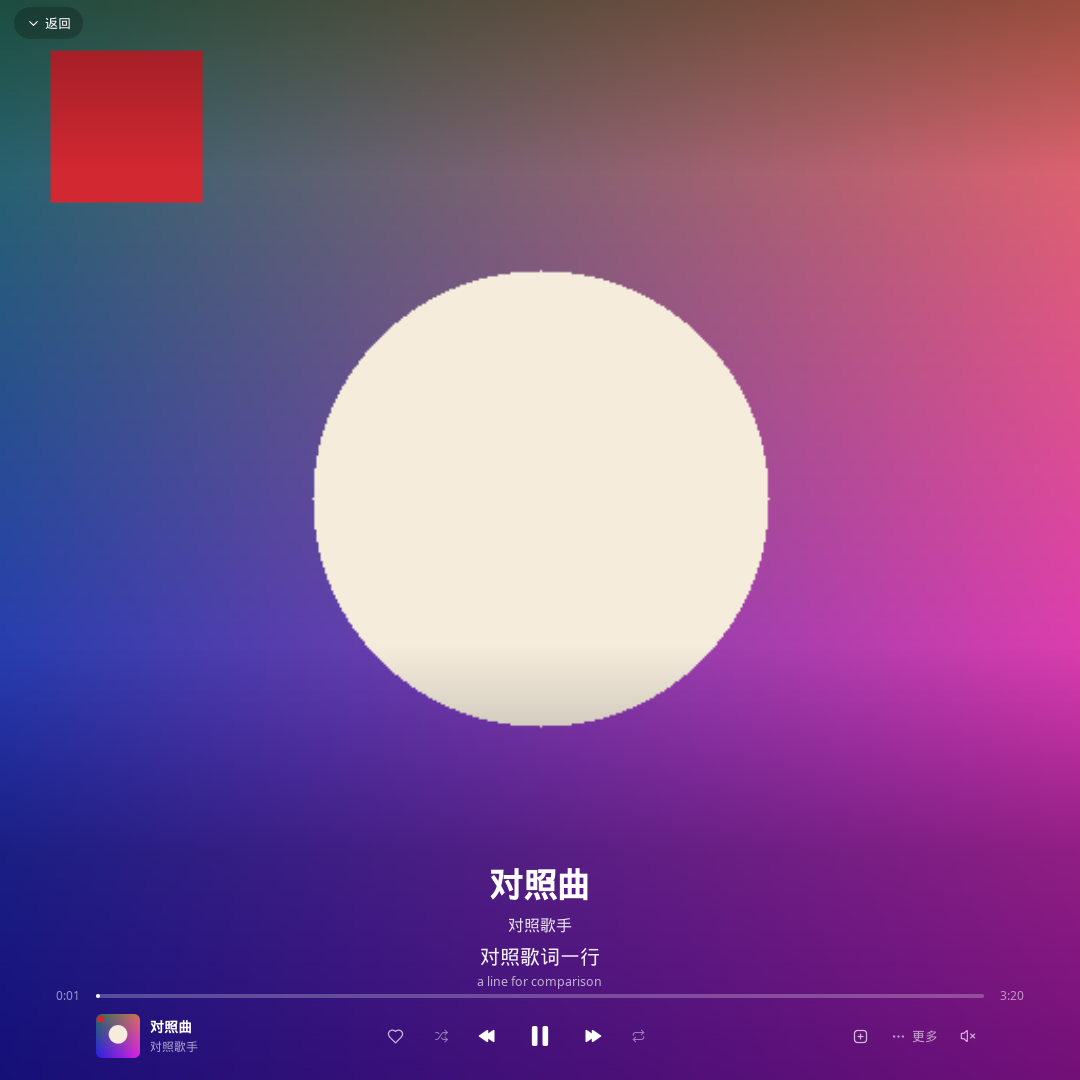
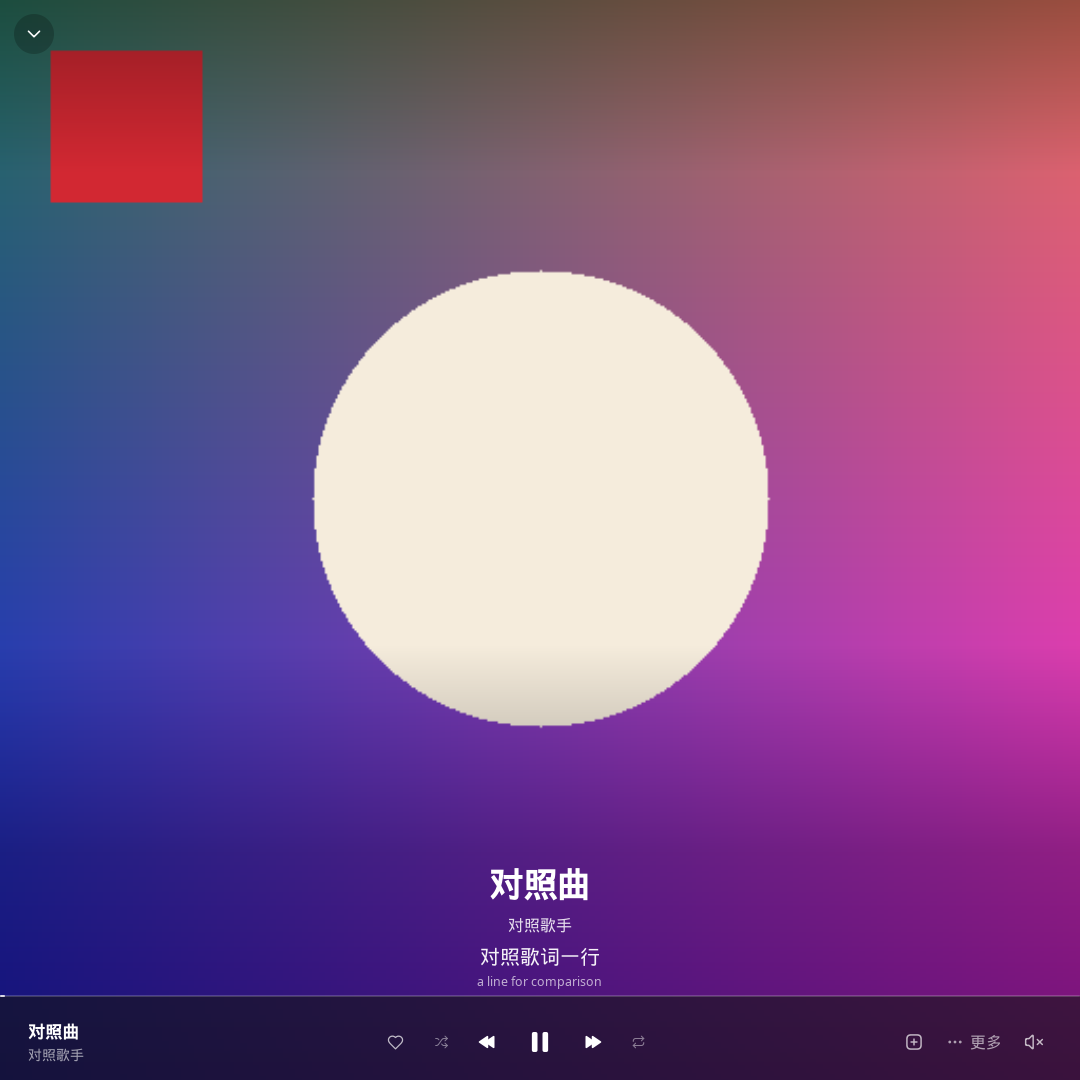
Refresh playing-page notes for the full-width bar
Rebase onto the pushed typography and player-bar work. Cover crop and
the wide-window blur are unchanged; the playing-page bar is now a
full-width strip, so the checklist and headless frames follow that.

Changed region(s): [[0.0, 0.9167, 1.0, 1.0], [0.0306, 0.0, 0.0611, 0.0306]]

diff --git a/docs/ui-parity/STATUS.md b/docs/ui-parity/STATUS.md
@@ -2,13 +2,11 @@
 
 ## Checkout
 
-Branch `fix/player-ui-parity`, taken from `main` at `106cd3c` (`Rewrite README for listeners`).
+Branch `fix/player-ui-parity`, rebased onto `origin/main` at `5b786a7` (`Refine page typography, player bar and search`). That tip also includes `1df9916` (`Improve playback buffering, collections and shared layout`).
 
-`main` matched `origin/main`. The working tree was clean. No local WIP on remote; the user’s ~32 uncommitted files may still be only on their PC.
+The first look at this cloud checkout, then at `106cd3c`, found a clean tree. No local WIP on remote at that time; the user’s uncommitted files were only on their PC until they pushed. Those two commits are the pushed work this branch now contains. Anything still uncommitted on the PC is still absent.
 
-Nothing from `D:\仓库集合\mygo-cloudmusic` was available here unless it had already been pushed. No commit was invented for that work. No force-push.
-
-`本地开发说明-改代码看这里.md` on this `main` names `internal/app/ui_stage.go`, `ui_stage_styles.go`, and settings `LyricsStage`, `StageStyle`, `StageSparks`, `Fog`, and `Smoke`. Those files and fields are not in the Go tree at `106cd3c`. `ui_nowplaying.go` is 582 lines, not the 650 lines that note claims. A comment on `app.npPane` still says `paneStage`, and that constant is gone. If the uncommitted Windows tree adds a stage view, it is not in this branch.
+`本地开发说明-改代码看这里.md` on this tip still names `internal/app/ui_stage.go`, `ui_stage_styles.go`, and settings `LyricsStage`, `StageStyle`, `StageSparks`, `Fog`, and `Smoke`. Those files and fields are not in the Go tree at `5b786a7`. `ui_nowplaying.go` is 581 lines. A comment on `app.npPane` still says `paneStage`, and that constant is gone.
 
 ## What the playing page does now
 
@@ -18,12 +16,15 @@ The page that opens with Ctrl+L is `nowPlayingView` (`internal/app/ui_nowplaying
 - Wider than height × 1.15, the same picture stays sharp on the left and eases into a blurred copy between 42% and 72% of the width. Square and tall windows stay sharp across.
 - The blur fed to that mix is a 48×48 image: shrink, raise saturation, three box blurs of radius 5 (`blurImage` in `internal/app/artwork.go`). Scaled up, it can look soft and banded.
 - Under that, `backdrop` (`internal/app/backdrop.go`) paints a deep gradient of the cover’s main colour, lighter at the top, plus the blurred cover at 10% opacity, into a canvas an eighth of the window across. The full-bleed cover is drawn over it, so the gradient shows only where the cover does not. Comments in `backdrop.go` describe this gradient as matching NetEase’s player; the picture on top is a later full-bleed poster.
-- Title, artist, and the current lyric line are centered just above the bottom bar. The bar (progress, a 44px thumbnail, transport, quality, volume) hides after 2.75s idle. Lyrics sit in a right column when the window is at least 1120px wide and at least 1.3 times as wide as it is tall; otherwise they are a centered panel.
+- Title, artist, and the current lyric line are centered just above the bottom bar (name 34px, or 26px when the window is shorter than 680). Lyrics sit in a right column when the window is at least 1120px wide and at least 1.3 times as wide as it is tall; otherwise they are a centered panel.
+- The playing-page bar is now a full-width strip flush with the bottom, 84px tall (`playerBarHeight`), filled with `rgba(20, 20, 22, 0.6)`. It has no cover thumbnail. The song name is 17px and the artist 14px. The progress line is a full-width scrubber along the top edge of that strip (`Top(-8)`). Elapsed and remaining time show only while the pointer is on the scrubber. Transport, like, collect, quality, volume, and “更多” sit in the strip. The back control is a 40px round icon, still labeled “返回”, with no word beside the chevron. The strip hides after 2.75s idle.
 - Opening and closing spring the whole layer from 60px below (`npSpring`, 450ms, bounce 0.08).
+
+`5b786a7` changed type sizes and this bar. It did not change `blendSource`, `blurImage`, `backdrop`, or `npCover`. The crop and the wide-window blur are the same as on `106cd3c`.
 
 `npCover` in `internal/app/ui_cover.go` still implements a square cover that tilts, glares, and flings to the next song. No caller builds it. A comparison that expects that card will not see it on this tree.
 
-The foot of the normal pages (`playerBar` in `internal/app/ui_player.go`) is a separate bar, height 84. This pass does not restyle it.
+The bar on ordinary pages (`playerBar` in `internal/app/ui_player.go`) is a separate 84px strip. Its progress line is also full width, along the top of the strip, and the strip is a solid page background with a hairline instead of the old frosted scroll edge. It is not built while the playing page has settled, so the frames below do not show it.
 
 Likely places a paired screenshot will disagree, to confirm rather than to fix yet:
 
@@ -38,7 +39,7 @@ No visual constants were changed in this pass. A restyle needs the official stil
 
 The official NetEase Windows client does not run here. This app was not logged in and was not given a live song.
 
-`ui.NewTester` drew the playing page without a window. `TestNowPlayingAspectFrames` was run with `NM_FRAMES` set to `docs/ui-parity/frames/mygo` (five times). The cover is synthetic: a 512×512 wash, a disc, and a red square at the cover’s top left. The PNGs are this app only.
+`ui.NewTester` drew the playing page without a window. `TestNowPlayingAspectFrames` was run again after the rebase onto `5b786a7`, with `NM_FRAMES` set to `docs/ui-parity/frames/mygo` (five times). The cover is synthetic: a 512×512 wash, a disc, and a red square at the cover’s top left. The PNGs are this app only. Crop and blur match the earlier frames; the bar is the full-width strip from `5b786a7`.
 
 What those frames show, which matches the code above:
 
@@ -48,20 +49,20 @@ What those frames show, which matches the code above:
 - `9x16-720x1280.png`: the red square is cropped off the side. The disc stays sharp.
 - `lyrics-16x9-1280x720.png`: the lyric line sits on the right, over the blur.
 - `lyrics-1x1-800x800.png`: the lyric line sits in a centered dark panel.
-- The bottom bar’s small cover is the same fixture. Controls are the awake state. Nothing here is a recording of the open or close spring.
+- The bottom strip is full width, flush with the window, and has no cover thumbnail. The pointer in these frames sits in the middle of the picture, so the time tooltip on the progress line is not showing. Controls are the awake state. Nothing here is a recording of the open or close spring.
 
 Left-edge stair-steps, where the disc is sharp, come from drawing a 512×512 fixture into a larger window. A real 1536 cover would be smoother there. The soft right side is the 48×48 blur, not that upscale.
 
 ## Tests on this VM
 
-`NM_FRAMES="$PWD/docs/ui-parity/frames/mygo" go test ./internal/app/ -run TestNowPlayingAspectFrames -count=5` passed.
+After the rebase onto `5b786a7`, `NM_FRAMES="$PWD/docs/ui-parity/frames/mygo" go test ./internal/app/ -run TestNowPlayingAspectFrames -count=5` was run again. The test still compiles: it drives `nowPlayingView` and does not call `scrubber` or `collectButton`, whose signatures changed in `5b786a7`.
 
-`go test ./internal/...` then failed in `TestNotchGreetsOnce` and `TestNotchGreetingKeptUnderPointer`. Both attach a real audio output, and this VM has no ALSA device (`Unknown PCM default`), so the notch never greets. That is independent of the playing-page frames. `internal/lyrics`, `internal/netease`, `internal/player`, and `internal/speech` passed.
+`go test ./internal/...` on this tip failed in `TestNotchGreetsOnce` and `TestNotchGreetingKeptUnderPointer`. Both attach a real audio output, and this VM has no ALSA device (`Unknown PCM default`), so the notch never greets. That is independent of the playing page. `internal/lyrics`, `internal/netease`, `internal/player`, and `internal/speech` passed. The same two tests failed the same way on `106cd3c`.
 
 ## Next, on the Windows machine
 
-1. If the ~32 uncommitted files should be part of the comparison, commit or copy them onto a branch first. This PR does not contain them.
-2. Follow [CHECKLIST.md](CHECKLIST.md): one song, the sizes in the table, awake and rest stills, one motion clip at 1180×780.
+1. Follow [CHECKLIST.md](CHECKLIST.md): one song, the sizes in the table, awake and rest stills, one motion clip at 1180×780. Put the pointer on the progress line for one still so the time tooltip is in the shot.
+2. If more uncommitted files remain on the PC, they are not in `5b786a7`.
 3. Drop notes in this file under a dated heading. Then a later change can adjust blur, cover, or motion against those pairs.
 
 Do not commit real covers, session files, or the Windows credential for `dev.egoist.cloudmusic/netease-session`.

diff --git a/docs/ui-parity/CHECKLIST.md b/docs/ui-parity/CHECKLIST.md
@@ -73,8 +73,10 @@ Check each pair, official on the left. Write a one-line note in STATUS rather th
 
 - Where the title, artist, and current lyric line sit (under a card, centered low, or to one side).
 - Whether the translation line is present, and its size.
-- Progress bar, times, transport, small cover thumbnail, quality, volume.
+- Progress line, transport, quality, volume. On this app the playing-page bar is a full-width 84px strip flush with the bottom, `rgba(20, 20, 22, 0.6)`, with no cover thumbnail. The progress line runs the full width along the top of that strip. Elapsed and remaining time appear only while the pointer is on the line, so take one still with the pointer there.
+- The back control is a round icon. Its accessible name is still “返回”.
 - Lyrics: a column on the right, or a panel over the middle. Here, the right column is used when width ≥ 1120 and width/height ≥ 1.3 (`reading` in `ui_immersive.go`). Otherwise the lyrics are a centered panel.
+- The bar on other pages is separate: also 84px, with a full-width progress line, and a solid background plus a hairline rather than a frosted edge. Capture it only if the comparison is meant to include the mini player.
 
 **Motion** (from the recording, not from the stills)
 
@@ -93,7 +95,7 @@ NM_FRAMES="$PWD/docs/ui-parity/frames/mygo" go test ./internal/app/ -run TestNow
 
 `go test` runs with the package directory as its working directory. A relative `NM_FRAMES` would write under `internal/app/`. Use the absolute path above.
 
-`TestNowPlayingAspectFrames` skips unless `NM_FRAMES` is set. It does not call NetEase. The cover is drawn in the test (512×512). The window shapes match the table above, except the filenames use the pixel size (`16x9-1280x720.png`, and so on). Controls are awake. Two extra files open the lyrics pane. The bar’s small cover is the same fixture. Any other size stays empty instead of being fetched.
+`TestNowPlayingAspectFrames` skips unless `NM_FRAMES` is set. It does not call NetEase. The cover is drawn in the test (512×512). The window shapes match the table above, except the filenames use the pixel size (`16x9-1280x720.png`, and so on). Controls are awake. The pointer sits in the middle of the picture, so the time tooltip is absent. Two extra files open the lyrics pane. Any cover size the page does not already have stays empty instead of being fetched.
 
 These frames show layout, crop, and the wide-window blur. They do not show a real song, the official client, or motion.
 
